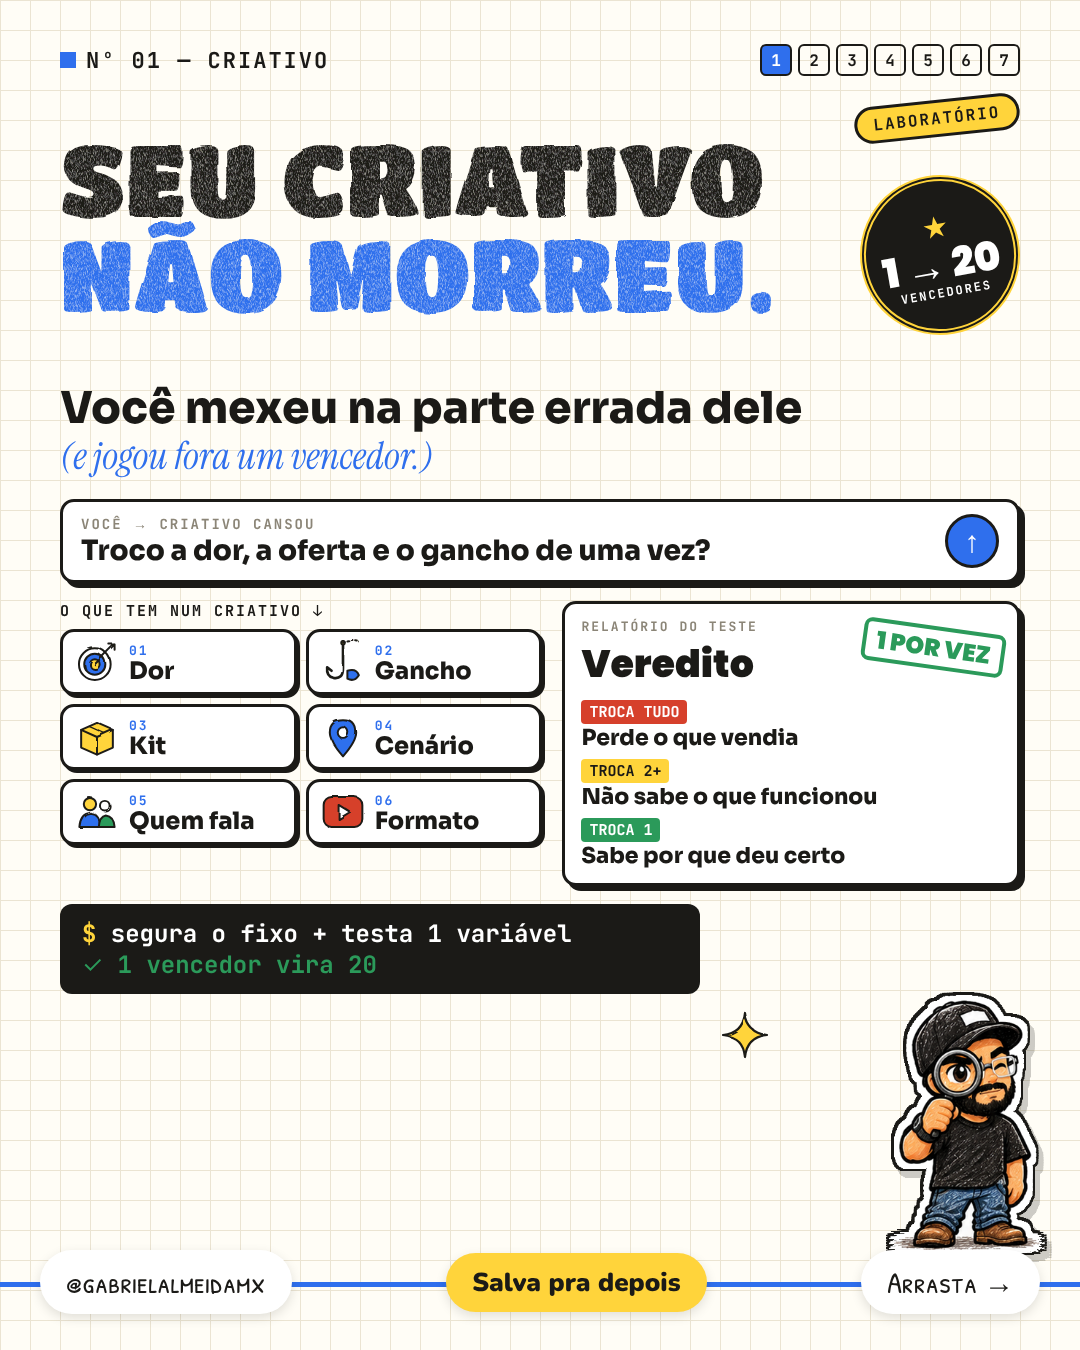
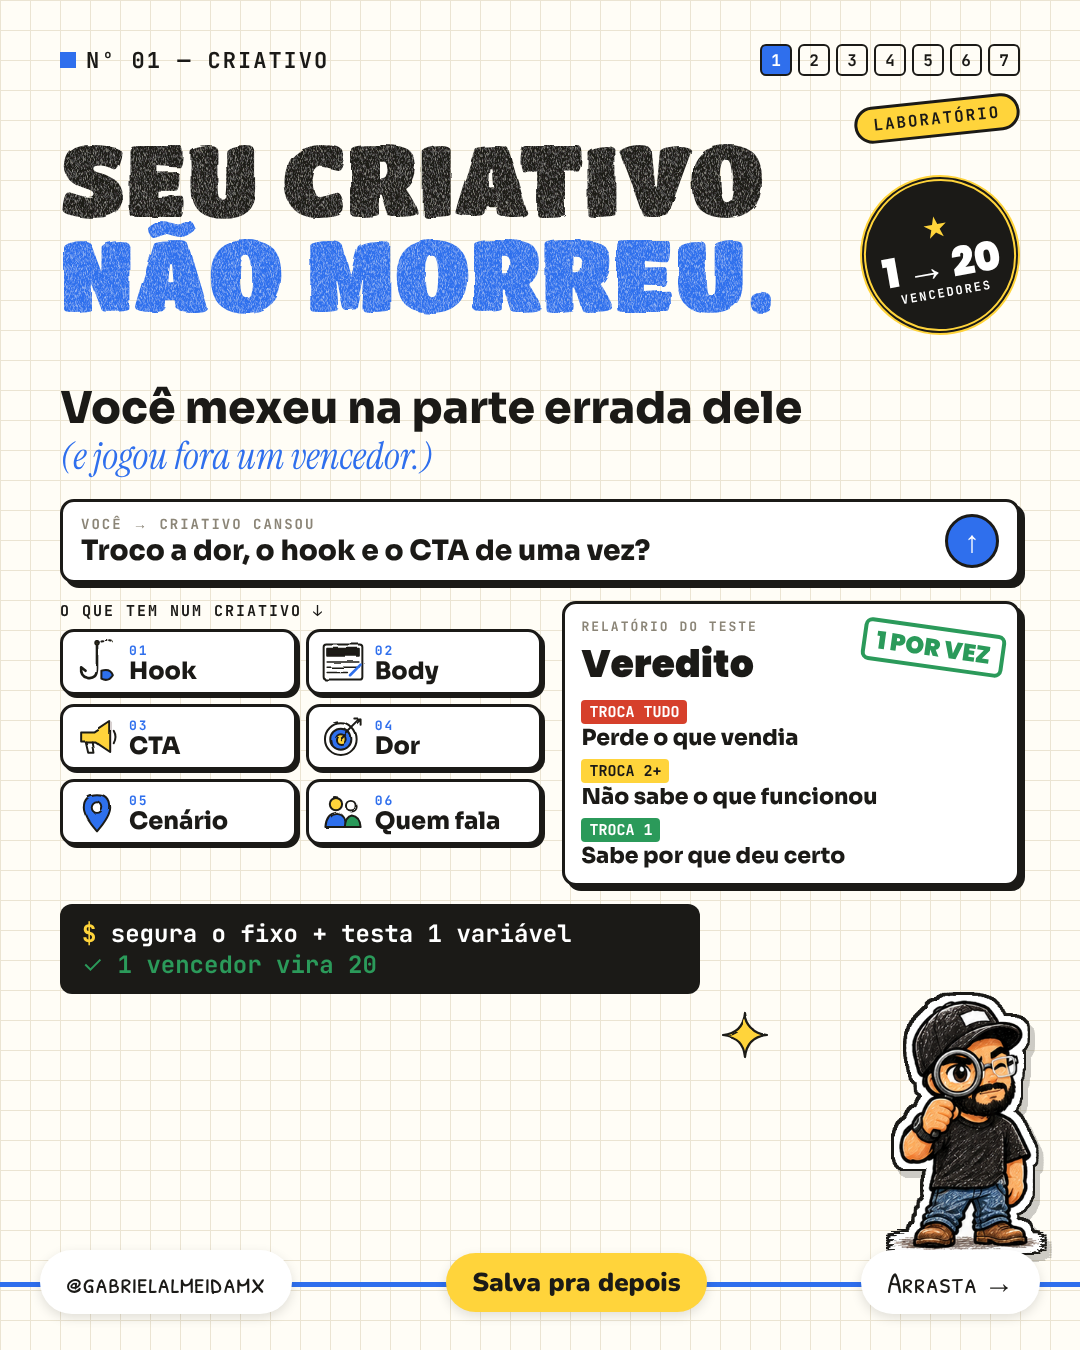
Criativo não morreu: estrutura Hook/Body/CTA no lugar de kit
Claude-Session: https://claude.ai/code/session_01Md5T5VQj3VmppQmeifTP3X

diff --git a/template/ficha-criativo.py b/template/ficha-criativo.py
@@ -14,31 +14,31 @@ def stamp(t,c): return f"<div style='position:absolute;top:150px;right:70px;tran
 S=[]
 # 2 erro
 arrow="<div style='font-family:TP;font-weight:900;font-size:40px;color:#2f6fed'>→</div>"
-flow=arrow.join(f"<div class='box' style='padding:10px 14px;text-align:center;width:210px;{bg}'><div style='width:60px;height:60px;margin:0 auto'>{I[ic]}</div><div style='font-family:TS;font-weight:800;font-size:24px;line-height:1.05;margin-top:6px'>{t}</div></div>" for ic,t,bg in [('chartdown','Criativo cansa',''),('warning','Troca dor, oferta e gancho',''),('arrowcurl','Volta pra estaca zero',''),('ban','Culpa o gerenciador','background:#fde3df')])
+flow=arrow.join(f"<div class='box' style='padding:10px 14px;text-align:center;width:210px;{bg}'><div style='width:60px;height:60px;margin:0 auto'>{I[ic]}</div><div style='font-family:TS;font-weight:800;font-size:24px;line-height:1.05;margin-top:6px'>{t}</div></div>" for ic,t,bg in [('chartdown','Criativo cansa',''),('warning','Troca dor, hook e CTA',''),('arrowcurl','Volta pra estaca zero',''),('ban','Culpa o gerenciador','background:#fde3df')])
 S.append(head(2,'O erro')+stamp('ERRO','#d6402b')+title('O erro','mais caro.','Trocar tudo quando o criativo cansa','(e jogar fora o que vendia.)')+
  f"<div style='position:absolute;top:560px;left:50px;right:50px;display:flex;align-items:center;gap:6px'>{flow}</div>"+
  f"<div class='box' style='position:absolute;top:800px;left:60px;width:620px;padding:16px 20px'><div class='mono' style='font-size:14px;color:#8b8577'>Você → criativo cansou</div><div style='font-family:TS;font-weight:800;font-size:30px'>“Morreu. Vou fazer outro do zero.”</div><div style='margin-top:10px'>{tag('ERRADO','#d6402b')}</div><div style='font-size:30px;margin-top:6px'>Você nem sabe qual parte cansou.</div></div>"+
  f"<div style='position:absolute;top:1030px;left:60px'>{term('troca tudo = perde o motivo da venda','próximo slide: o que não mexer')}</div>"+pose('frustrado',270))
 # 3 fixo
 S.append(head(3,'O fixo')+stamp('NÃO MEXE','#1b1a17')+title('A parte','fixa.','O que aparece em todos os seus vencedores','(se repete em 3 de 3, é fixo.)')+
- f"<div style='position:absolute;top:560px;left:60px;width:640px;display:flex;flex-direction:column;gap:14px'>{card('target','01','A dor','A mesma dor em todos os vencedores','#fff3bf')}{card('hook','02','O tipo de gancho','Pergunta, choque, número… o mesmo formato de abertura','#fff3bf')}{card('box','03','O kit','A mesma oferta e condição no final','#fff3bf')}</div>"+
+ f"<div style='position:absolute;top:560px;left:60px;width:640px;display:flex;flex-direction:column;gap:14px'>{card('target','01','A dor','A mesma dor em todos os vencedores','#fff3bf')}{card('hook','02','O tipo de hook','Pergunta, choque, número… o mesmo jeito de abrir','#fff3bf')}{card('megaphone','03','O CTA','O mesmo pedido no final, levando pro X1','#fff3bf')}</div>"+
  f"<div style='position:absolute;top:620px;right:70px;width:220px;height:220px;transform:rotate(8deg)'>{I['lock']}</div>"+
  f"<div style='position:absolute;top:1030px;left:60px'>{term('fixo = o que vendeu em todos','é ele que faz o criativo escalar')}</div>"+pose('confiante-oculos',260))
 # 4 variavel
 S.append(head(4,'O variável')+stamp('TESTA AQUI','#2f6fed')+title('A parte','variável.','Todo o resto do criativo','(é aqui que você testa, não no fixo.)')+
- f"<div style='position:absolute;top:560px;left:60px;right:60px;display:grid;grid-template-columns:1fr 1fr;gap:14px'>{card('pin','01','Cenário','Casa, rua, carro, consultório','#dbe7fd')}{card('people','02','Quem fala','Você, cliente, especialista','#dbe7fd')}{card('quote','03','A 1ª frase','Outras palavras, mesma dor','#dbe7fd')}{card('play','04','Formato','Fala, POV, texto na tela','#dbe7fd')}</div>"+
+ f"<div style='position:absolute;top:560px;left:60px;right:60px;display:grid;grid-template-columns:1fr 1fr;gap:14px'>{card('pin','01','Cenário','Casa, rua, carro, consultório','#dbe7fd')}{card('people','02','Quem fala','Você, cliente, especialista','#dbe7fd')}{card('quote','03','A frase do hook','Outras palavras, mesmo tipo de hook','#dbe7fd')}{card('headline','04','O body','Como você conta: história, prova, explicação','#dbe7fd')}</div>"+
  f"<div style='position:absolute;top:1000px;left:60px'>{term('variável = 1 troca por teste','você sabe o que funcionou')}</div>"+pose('ideia',240,40,110))
 # 5 como testar
 st=''.join(f"<div style='flex:1;text-align:center'><div style='width:120px;height:120px;margin:0 auto;border-radius:50%;border:4px solid #1b1a17;box-shadow:6px 6px 0 #1b1a17;background:{c};display:flex;align-items:center;justify-content:center;font-family:TP;font-weight:900;font-size:56px'>{n}</div><div style='font-family:TS;font-weight:800;font-size:30px;margin-top:12px'>{t}</div><div style='font-size:28px;line-height:1.05'>{d}</div></div>" for n,t,d,c in [('1','Separa','Seus 3 últimos vencedores','#7fd3a0'),('2','Marca','O que se repete nos 3','#ffd43b'),('3','Troca','Uma variável por vez','#8db3f5')])
 S.append(head(5,'Como testar')+title('Testa sem','perder o vencedor.','3 passos, nessa ordem','(pula um e o teste não vale.)',78)+
  f"<div style='position:absolute;top:560px;left:60px;right:60px;display:flex;gap:10px;position:absolute'>{st}</div>"+
- f"<div class='box' style='position:absolute;top:860px;left:60px;width:640px;padding:16px 20px'><div class='mono' style='font-size:14px;color:#8b8577'>Exemplo de teste</div><div style='font-size:30px;line-height:1.1;margin-top:4px'>Mesma dor, mesmo gancho, mesmo kit.<br>Muda só <b style='background:#ffd43b;padding:0 4px'>quem fala</b>. Ganhou? Esse vira o novo fixo.</div></div>"+
+ f"<div class='box' style='position:absolute;top:860px;left:60px;width:640px;padding:16px 20px'><div class='mono' style='font-size:14px;color:#8b8577'>Exemplo de teste</div><div style='font-size:30px;line-height:1.1;margin-top:4px'>Mesma dor, mesmo hook, mesmo CTA.<br>Muda só <b style='background:#ffd43b;padding:0 4px'>quem fala</b>. Ganhou? Esse vira o novo fixo.</div></div>"+
  f"<div style='position:absolute;top:1060px;left:60px'>{term('1 vencedor + 1 variável = 1 teste','sem perder o que já vende')}</div>"+pose('checklist-operacao',260))
 # 6 faça hoje
 rows=''.join(f"<tr><td>Criativo {k}</td><td></td><td></td><td></td></tr>" for k in ('A','B','C'))
 S.append(head(6,'Faça hoje')+stamp('5 MIN','#2b9a5a')+title('Faça','hoje.','Descobre o seu fixo em 5 minutos','(papel e caneta resolvem.)')+
  f"<div class='box' style='position:absolute;top:560px;left:60px;right:60px;padding:16px 22px'><div style='font-size:34px;line-height:1.3'>☐ Abre os 3 últimos criativos que venderam<br>☐ Preenche a tabela abaixo<br>☐ O que repetir nas 3 linhas é o seu fixo</div>"+
- f"<table style='width:100%;border-collapse:collapse;margin-top:14px;font-size:28px'><tr style='font-family:TS;font-weight:800;font-size:24px;background:#fff3bf'><td style='padding:8px;border:2.5px solid #1b1a17'></td><td style='border:2.5px solid #1b1a17;padding:8px'>Dor</td><td style='border:2.5px solid #1b1a17;padding:8px'>Gancho</td><td style='border:2.5px solid #1b1a17;padding:8px'>Kit</td></tr>{rows.replace('<td>','<td style=border:2.5px\\ solid\\ #1b1a17;padding:8px;height:48px>')}</table></div>"+pose('notebook-mesa',230,40,100))
+ f"<table style='width:100%;border-collapse:collapse;margin-top:14px;font-size:28px'><tr style='font-family:TS;font-weight:800;font-size:24px;background:#fff3bf'><td style='padding:8px;border:2.5px solid #1b1a17'></td><td style='border:2.5px solid #1b1a17;padding:8px'>Dor</td><td style='border:2.5px solid #1b1a17;padding:8px'>Hook</td><td style='border:2.5px solid #1b1a17;padding:8px'>CTA</td></tr>{rows.replace('<td>','<td style=border:2.5px\\ solid\\ #1b1a17;padding:8px;height:48px>')}</table></div>"+pose('notebook-mesa',230,40,100))
 # 7 cta
 S.append(head(7,'Escala previsível')+title('Um vencedor','vira vinte.','Quando você sabe o que mexer','(e o que nunca mexer.)')+
  f"<div style='position:absolute;top:580px;left:60px;right:60px;text-align:center'><div style='display:inline-block;background:#fff;border:4px dashed #2f6fed;border-radius:60px;padding:22px 40px;font-size:46px'>Comenta <b style='background:#ffd43b;padding:0 8px'>ESCALA</b> que eu te chamo no direct</div>"+

diff --git a/template/capas-criativo2.py b/template/capas-criativo2.py
@@ -38,7 +38,7 @@ E=f"""
 {dd('bulb',40,110,-12)}{dd('fire',955,110,10)}{dd('sparkle',470,900,0,60)}{dd('arrowcurl',360,860,20,70)}
 """
 # F: ficha
-grid=''.join(f"<div class='box' style='padding:8px 12px;display:flex;gap:10px;align-items:center;box-shadow:3px 3px 0 #1b1a17'><div style='width:44px;height:44px;flex:none'>{I[ic]}</div><div><div class='mono' style='font-size:13px;color:#2f6fed'>0{k+1}</div><div style='font-family:TS;font-weight:800;font-size:24px;line-height:1'>{t}</div></div></div>" for k,(ic,t) in enumerate([('target','Dor'),('hook','Gancho'),('box','Kit'),('pin','Cenário'),('people','Quem fala'),('play','Formato')]))
+grid=''.join(f"<div class='box' style='padding:8px 12px;display:flex;gap:10px;align-items:center;box-shadow:3px 3px 0 #1b1a17'><div style='width:44px;height:44px;flex:none'>{I[ic]}</div><div><div class='mono' style='font-size:13px;color:#2f6fed'>0{k+1}</div><div style='font-family:TS;font-weight:800;font-size:24px;line-height:1'>{t}</div></div></div>" for k,(ic,t) in enumerate([('hook','Hook'),('headline','Body'),('megaphone','CTA'),('target','Dor'),('pin','Cenário'),('people','Quem fala')]))
 F=f"""
 <div style='position:absolute;top:44px;left:60px;right:60px;display:flex;align-items:center;justify-content:space-between'><div class='mono' style='font-size:22px'><span style='display:inline-block;width:16px;height:16px;background:#2f6fed;margin-right:10px'></span>Nº 01 — Criativo</div><div style='display:flex;gap:6px'>{sq}</div></div>
 <div style='position:absolute;top:100px;right:60px;transform:rotate(-6deg);background:#ffd43b;border:3px solid #1b1a17;border-radius:30px;padding:5px 16px' class='mono'>Laboratório</div>
@@ -47,7 +47,7 @@ F=f"""
 <div style='position:absolute;top:385px;left:60px;right:60px'>
 <div style='font-family:TS;font-weight:800;font-size:44px;line-height:1.05'>Você mexeu na parte errada dele</div>
 <div class='ser' style='font-size:38px'>(e jogou fora um vencedor.)</div>
-<div class='box' style='margin-top:18px;padding:12px 18px;display:flex;align-items:center;gap:16px'><div style='flex:1'><div class='mono' style='font-size:14px;color:#8b8577'>Você → criativo cansou</div><div style='font-family:TS;font-weight:800;font-size:28px'>Troco a dor, a oferta e o gancho de uma vez?</div></div><div style='width:54px;height:54px;border-radius:50%;background:#2f6fed;border:3px solid #1b1a17;color:#fff;display:flex;align-items:center;justify-content:center;font-size:30px'>↑</div></div>
+<div class='box' style='margin-top:18px;padding:12px 18px;display:flex;align-items:center;gap:16px'><div style='flex:1'><div class='mono' style='font-size:14px;color:#8b8577'>Você → criativo cansou</div><div style='font-family:TS;font-weight:800;font-size:28px'>Troco a dor, o hook e o CTA de uma vez?</div></div><div style='width:54px;height:54px;border-radius:50%;background:#2f6fed;border:3px solid #1b1a17;color:#fff;display:flex;align-items:center;justify-content:center;font-size:30px'>↑</div></div>
 <div style='display:flex;gap:20px;margin-top:18px'>
 <div style='flex:1.15'><div class='mono' style='font-size:15px;margin-bottom:8px'>O que tem num criativo ↓</div><div style='display:grid;grid-template-columns:1fr 1fr;gap:9px'>{grid}</div></div>
 <div class='box' style='flex:1;padding:14px 16px;position:relative'><div class='mono' style='font-size:13px;color:#8b8577'>Relatório do teste</div><div style='font-family:TP;font-weight:900;font-size:38px'>Veredito</div>
